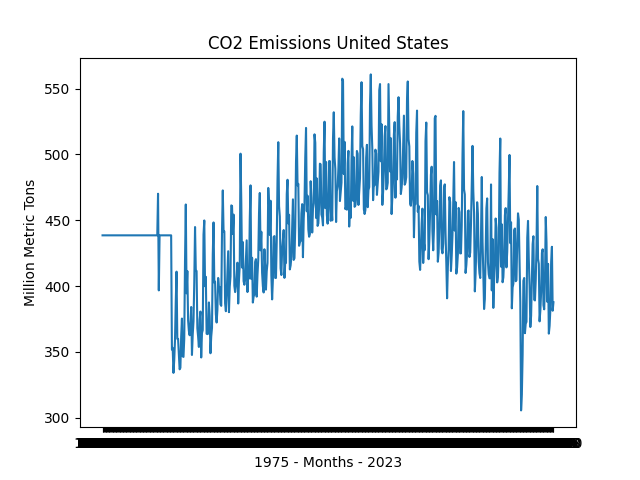
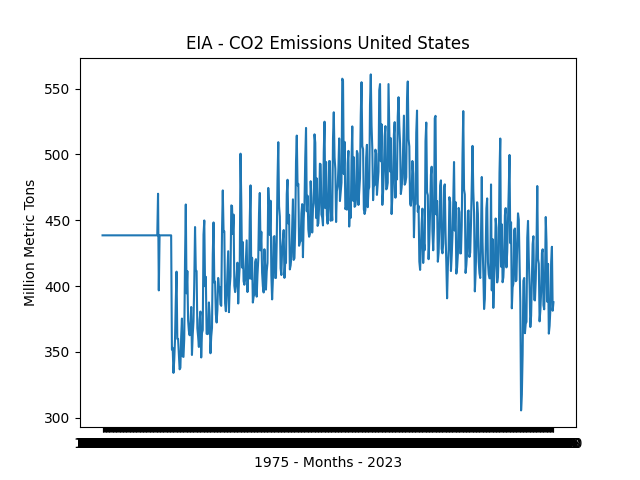
title

Changed region(s): [[0.2812, 0.0625, 0.75, 0.125]]

diff --git a/eia/total_energy_make_chart.py b/eia/total_energy_make_chart.py
@@ -31,7 +31,7 @@ time = np.array(months)
 plt.plot(time, np_co2)
 plt.xlabel("1975 - Months - 2023")
 plt.ylabel("Million Metric Tons")
-plt.title("CO2 Emissions United States")
+plt.title("EIA - CO2 Emissions United States")
 plt.savefig(png_out)
 plt.show()
 plt.close()
